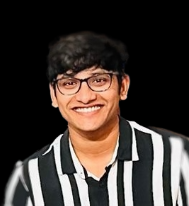
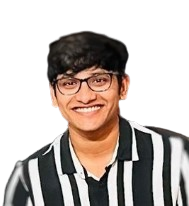
chore: Update page with toggle audio and me image improvement

diff --git a/components/socials.tsx b/components/socials.tsx
@@ -31,11 +31,10 @@ export default function Socials() {
         {socials.map((social, index) => (
           <a
             key={index}
-            className="flex gap-2 items-center hover:bg-[#271f1f] py-2 px-2 rounded-md w-fit border-2 border-[#1F1717] transition-transform duration-300 transform hover:scale-105"
+            className="flex gap-2 items-center hover:bg-[#271f1f] py-1 px-1 rounded-md w-fit border-2 border-[#1F1717] transition-transform duration-300 transform hover:scale-105 hover:text-white"
             href={social.link}
           >
             {social.icon}
-            {/*<p>{social.name}</p>*/}
           </a>
         ))}
       </div>
@@ -49,11 +48,13 @@ function XIcon() {
       role="img"
       viewBox="0 0 24 24"
       xmlns="http://www.w3.org/2000/svg"
-      className="w-6 h-6 p-1 rounded-sm"
+      className="p-1 rounded-sm"
+      width={24}
+      height={24}
     >
       <title>X</title>
       <path
-        fill="white"
+        fill="currentColor"
         d="M18.901 1.153h3.68l-8.04 9.19L24 22.846h-7.406l-5.8-7.584-6.638 7.584H.474l8.6-9.83L0 1.154h7.594l5.243 6.932ZM17.61 20.644h2.039L6.486 3.24H4.298Z"
       />
     </svg>
@@ -66,11 +67,13 @@ function LinkedInIcon() {
       role="img"
       viewBox="0 0 24 24"
       xmlns="http://www.w3.org/2000/svg"
-      className="w-6 h-6 p-1 rounded-sm"
+      className="p-1 rounded-sm"
+      width={24}
+      height={24}
     >
       <title>LinkedIn</title>
       <path
-        fill="white"
+        fill="currentColor"
         d="M20.447 20.452h-3.554v-5.569c0-1.328-.027-3.037-1.852-3.037-1.853 0-2.136 1.445-2.136 2.939v5.667H9.351V9h3.414v1.561h.046c.477-.9 1.637-1.85 3.37-1.85 3.601 0 4.267 2.37 4.267 5.455v6.286zM5.337 7.433c-1.144 0-2.063-.926-2.063-2.065 0-1.138.92-2.063 2.063-2.063 1.14 0 2.064.925 2.064 2.063 0 1.139-.925 2.065-2.064 2.065zm1.782 13.019H3.555V9h3.564v11.452zM22.225 0H1.771C.792 0 0 .774 0 1.729v20.542C0 23.227.792 24 1.771 24h20.451C23.2 24 24 23.227 24 22.271V1.729C24 .774 23.2 0 22.222 0h.003z"
       />
     </svg>
@@ -83,11 +86,13 @@ function GitHubIcon() {
       role="img"
       viewBox="0 0 24 24"
       xmlns="http://www.w3.org/2000/svg"
-      className="w-6 h-6 p-1 rounded-sm"
+      className="p-1 rounded-sm"
+      width={24}
+      height={24}
     >
       <title>GitHub</title>
       <path
-        fill="white"
+        fill="currentColor"
         d="M12 .297c-6.63 0-12 5.373-12 12 0 5.303 3.438 9.8 8.205 11.385.6.113.82-.258.82-.577 0-.285-.01-1.04-.015-2.04-3.338.724-4.042-1.61-4.042-1.61C4.422 18.07 3.633 17.7 3.633 17.7c-1.087-.744.084-.729.084-.729 1.205.084 1.838 1.236 1.838 1.236 1.07 1.835 2.809 1.305 3.495.998.108-.776.417-1.305.76-1.605-2.665-.3-5.466-1.332-5.466-5.93 0-1.31.465-2.38 1.235-3.22-.135-.303-.54-1.523.105-3.176 0 0 1.005-.322 3.3 1.23.96-.267 1.98-.399 3-.405 1.02.006 2.04.138 3 .405 2.28-1.552 3.285-1.23 3.285-1.23.645 1.653.24 2.873.12 3.176.765.84 1.23 1.91 1.23 3.22 0 4.61-2.805 5.625-5.475 5.92.42.36.81 1.096.81 2.22 0 1.606-.015 2.896-.015 3.286 0 .315.21.69.825.57C20.565 22.092 24 17.592 24 12.297c0-6.627-5.373-12-12-12"
       />
     </svg>
@@ -100,11 +105,13 @@ function GmailIcon() {
       role="img"
       viewBox="0 0 24 24"
       xmlns="http://www.w3.org/2000/svg"
-      className="w-6 h-6 p-1 rounded-sm"
+      className="p-1 rounded-sm"
+      width={24}
+      height={24}
     >
       <title>Gmail</title>
       <path
-        fill="white"
+        fill="currentColor"
         d="M24 5.457v13.909c0 .904-.732 1.636-1.636 1.636h-3.819V11.73L12 16.64l-6.545-4.91v9.273H1.636A1.636 1.636 0 0 1 0 19.366V5.457c0-2.023 2.309-3.178 3.927-1.964L5.455 4.64 12 9.548l6.545-4.91 1.528-1.145C21.69 2.28 24 3.434 24 5.457z"
       />
     </svg>

diff --git a/components/ThemeSwitcher.tsx b/components/ThemeSwitcher.tsx
@@ -3,6 +3,11 @@ import { useTheme } from "next-themes";
 export default function ThemeSwitcher() {
   const { theme, setTheme } = useTheme();
 
+  function playSound(url: any) {
+    const audio = new Audio(url);
+    audio.play();
+  }
+
   return (
     <>
       {theme === "light" ? (
@@ -13,12 +18,11 @@ export default function ThemeSwitcher() {
           viewBox="0 0 24 24"
           onClick={() => {
             setTheme("dark");
+            playSound("/theme-audio.wav");
           }}
           className="cursor-pointer transform hover:scale-110 transition-transform duration-300 ease-in-out"
         >
-          <path
-            d="M12 15q1.25 0 2.125-.875T15 12q0-1.25-.875-2.125T12 9q-1.25 0-2.125.875T9 12q0 1.25.875 2.125T12 15m0 2q-2.075 0-3.537-1.463T7 12q0-2.075 1.463-3.537T12 7q2.075 0 3.538 1.463T17 12q0 2.075-1.463 3.538T12 17M2 13q-.425 0-.712-.288T1 12q0-.425.288-.712T2 11h2q.425 0 .713.288T5 12q0 .425-.288.713T4 13zm18 0q-.425 0-.712-.288T19 12q0-.425.288-.712T20 11h2q.425 0 .713.288T23 12q0 .425-.288.713T22 13zm-8-8q-.425 0-.712-.288T11 4V2q0-.425.288-.712T12 1q.425 0 .713.288T13 2v2q0 .425-.288.713T12 5m0 18q-.425 0-.712-.288T11 22v-2q0-.425.288-.712T12 19q.425 0 .713.288T13 20v2q0 .425-.288.713T12 23M5.65 7.05L4.575 6q-.3-.275-.288-.7t.288-.725q.3-.3.725-.3t.7.3L7.05 5.65q.275.3.275.7t-.275.7q-.275.3-.687.288T5.65 7.05M18 19.425l-1.05-1.075q-.275-.3-.275-.712t.275-.688q.275-.3.688-.287t.712.287L19.425 18q.3.275.288.7t-.288.725q-.3.3-.725.3t-.7-.3M16.95 7.05q-.3-.275-.288-.687t.288-.713L18 4.575q.275-.3.7-.288t.725.288q.3.3.3.725t-.3.7L18.35 7.05q-.3.275-.7.275t-.7-.275M4.575 19.425q-.3-.3-.3-.725t.3-.7l1.075-1.05q.3-.275.712-.275t.688.275q.3.275.288.688t-.288.712L6 19.425q-.275.3-.7.288t-.725-.288M12 12"
-          />
+          <path d="M12 15q1.25 0 2.125-.875T15 12q0-1.25-.875-2.125T12 9q-1.25 0-2.125.875T9 12q0 1.25.875 2.125T12 15m0 2q-2.075 0-3.537-1.463T7 12q0-2.075 1.463-3.537T12 7q2.075 0 3.538 1.463T17 12q0 2.075-1.463 3.538T12 17M2 13q-.425 0-.712-.288T1 12q0-.425.288-.712T2 11h2q.425 0 .713.288T5 12q0 .425-.288.713T4 13zm18 0q-.425 0-.712-.288T19 12q0-.425.288-.712T20 11h2q.425 0 .713.288T23 12q0 .425-.288.713T22 13zm-8-8q-.425 0-.712-.288T11 4V2q0-.425.288-.712T12 1q.425 0 .713.288T13 2v2q0 .425-.288.713T12 5m0 18q-.425 0-.712-.288T11 22v-2q0-.425.288-.712T12 19q.425 0 .713.288T13 20v2q0 .425-.288.713T12 23M5.65 7.05L4.575 6q-.3-.275-.288-.7t.288-.725q.3-.3.725-.3t.7.3L7.05 5.65q.275.3.275.7t-.275.7q-.275.3-.687.288T5.65 7.05M18 19.425l-1.05-1.075q-.275-.3-.275-.712t.275-.688q.275-.3.688-.287t.712.287L19.425 18q.3.275.288.7t-.288.725q-.3.3-.725.3t-.7-.3M16.95 7.05q-.3-.275-.288-.687t.288-.713L18 4.575q.275-.3.7-.288t.725.288q.3.3.3.725t-.3.7L18.35 7.05q-.3.275-.7.275t-.7-.275M4.575 19.425q-.3-.3-.3-.725t.3-.7l1.075-1.05q.3-.275.712-.275t.688.275q.3.275.288.688t-.288.712L6 19.425q-.275.3-.7.288t-.725-.288M12 12" />
         </svg>
       ) : (
         <svg
@@ -29,7 +33,10 @@ export default function ThemeSwitcher() {
           viewBox="0 0 24 24"
           stroke-width="1.5"
           stroke="currentColor"
-          onClick={() => setTheme("light")}
+          onClick={() => {
+            setTheme("light");
+            playSound("/theme-audio.wav");
+          }}
           className="cursor-pointer transform hover:scale-110 transition-transform duration-300 ease-in-out"
         >
           <path

diff --git a/app/page.tsx b/app/page.tsx
@@ -48,13 +48,12 @@ export default function Home() {
           content="Automating Non-Creative Jobs w/ webtools"
         />
       </Head>
-      <header className="flex justify-between my-4 items-center">
+      <header className="flex justify-between my-4 items-center h-24">
         <Image
-          className="rounded-full max-w-full"
+          className="max-w-full rounded-full block"
           src="/me.png"
           width={75}
           height={75}
-          objectFit="cover"
           alt="Mahesh Sanikommu Photo"
         />
         <ThemeSwitcher />
@@ -65,7 +64,7 @@ export default function Home() {
         </h1>
         <p>
           (<span className="text-xs text-gray-400">AKA</span>{" "}
-          <span className="text-primary">MaheshtheDev</span>)
+          <span className="text-[#52a6de] font-semibold">MaheshtheDev</span>)
         </p>
         <p className="text-md mt-5">
           I&apos;m a Full Stack Developer. I love to build web, mobile
@@ -80,15 +79,15 @@ export default function Home() {
         <div className="flex justify-between mt-2 items-center">
           <h2 className="text-xl font-bold text-blue-400">skills</h2>
           <span className="opacity-75 text-[10px]">
-            (select the skills you like)
+            (select the skills)
           </span>
         </div>
         <ol className="flex gap-2 flex-wrap my-2">
           {skills.map((skill, index) => (
             <li
               key={index}
-              className={`dark:bg-[#1B1818] bg-[#f8eeee] px-2 py-1 rounded-md text-xs  flex gap-1 items-center cursor-pointer ${
-                selectedSkills.includes(skill) ? ` bg-[#1F1717]` : ""
+              className={`dark:bg-[#1B1818] bg-[#f8eeee] px-2 py-1 rounded-md text-xs flex gap-1 items-center cursor-pointer ${
+                selectedSkills.includes(skill) ? ` bg-[#1F1717] text-white` : ""
               }`}
               onClick={() => {
                 if (selectedSkills.includes(skill)) {
